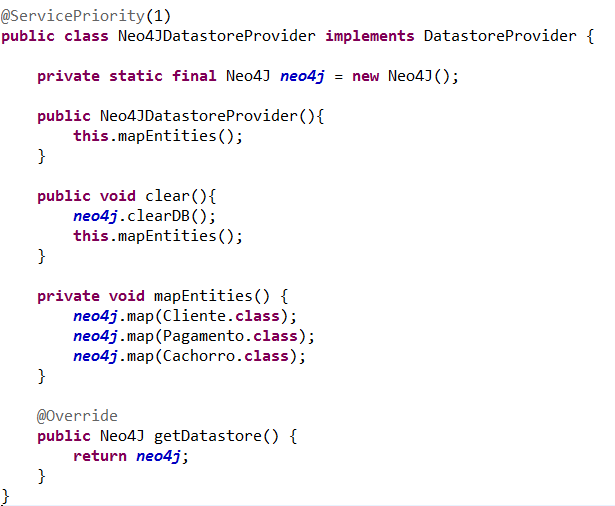
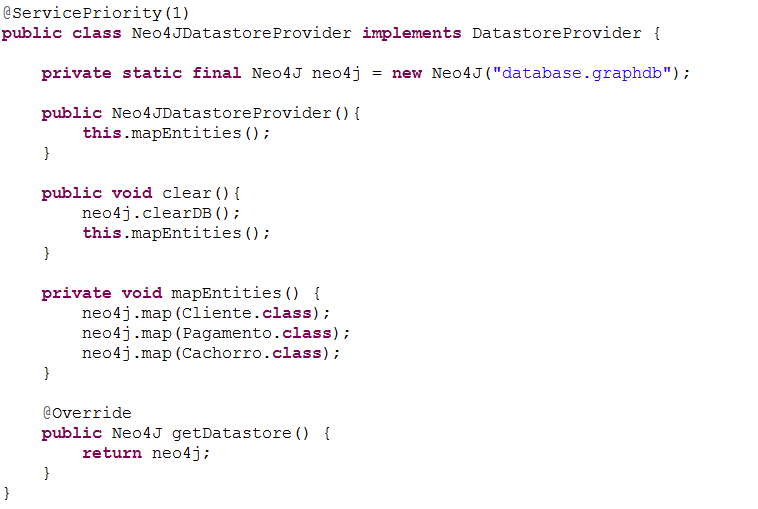
Troca da imagem do DatastoreProvider, passando nome do DB no construtor do Neo4J

diff --git a/Esfinge Query Builder Neo4J Documentation/Esfinge Query Builder.htm b/Esfinge Query Builder Neo4J Documentation/Esfinge Query Builder.htm
@@ -921,7 +921,7 @@ itere-o. </p>
 <div class="wp-spoiler wpui-light">
     <h3 class="ui-collapsible-header fade-true slide-true open-false">
         <span class="ui-icon"></span>
-        Query Builder com Neo4j
+        Query Builder com Neo4J
     </h3>
 </div>
 
